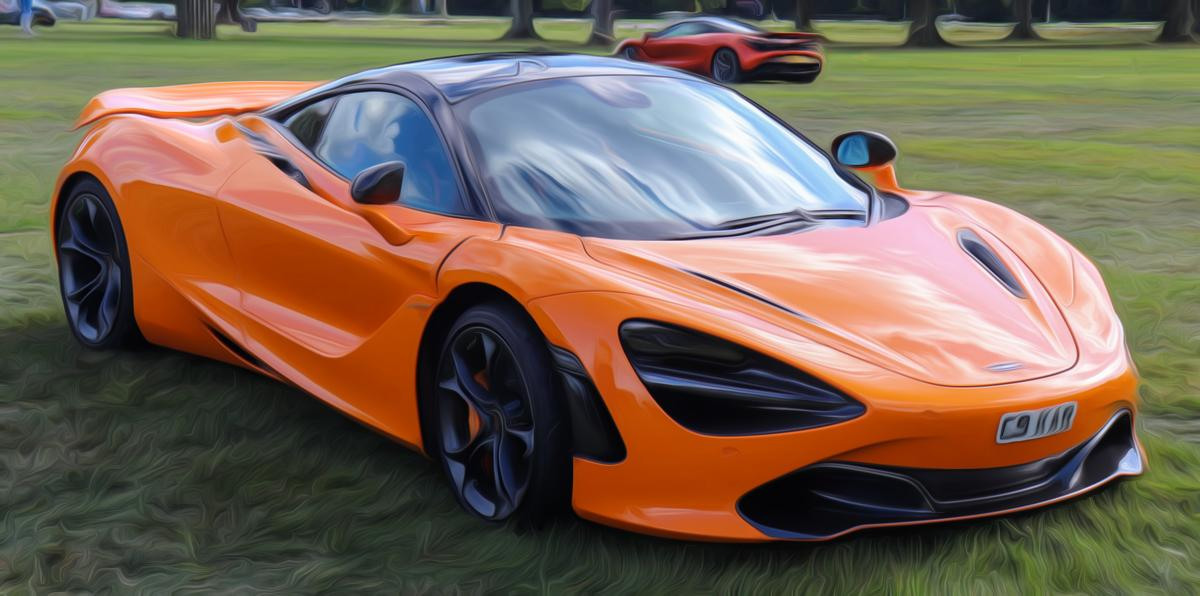
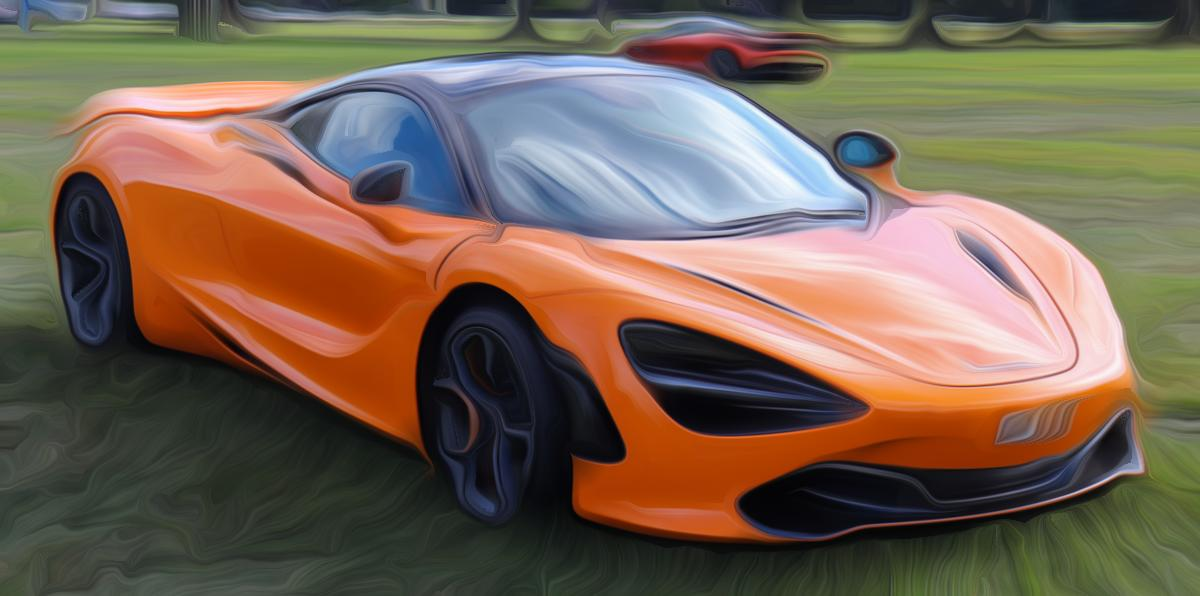
fix(flow-streak): longer default strokes
The README example read as light smoothing because the default stroke was
too short to look like a brush. A longer stroke and a wider flow field
make the streaks visible. Tests that pass an explicit length are unchanged.

diff --git a/flow-streak/flow-streak.py b/flow-streak/flow-streak.py
@@ -14,8 +14,8 @@ def main() -> None:
     parser = argparse.ArgumentParser(description="Brush strokes that follow the image's contours.")
     parser.add_argument("input", help="Input image path")
     parser.add_argument("output", nargs="?", default=None, help="Output image path")
-    parser.add_argument("--length", type=int, default=12, help="Steps traced each way along the flow, 0 to 40 (default: 12)")
-    parser.add_argument("--sigma", type=float, default=3.0, help="Smoothing of the flow field (default: 3.0)")
+    parser.add_argument("--length", type=int, default=36, help="Steps traced each way along the flow, 0 to 40 (default: 36)")
+    parser.add_argument("--sigma", type=float, default=6.0, help="Smoothing of the flow field (default: 6.0)")
     args = parser.parse_args()
 
     if not os.path.isfile(args.input):

diff --git a/README.md b/README.md
@@ -460,7 +460,7 @@ Smear the image along its own contours for brushed, combed strokes.
 python3 ./flow-streak/flow-streak.py <input> [output] [--length N] [--sigma N]
 ```
 
-Default: `--length 12 --sigma 3`
+Default: `--length 36 --sigma 6`
 
 ![flow-streak example](_output/mclaren-flow.jpg)
 
